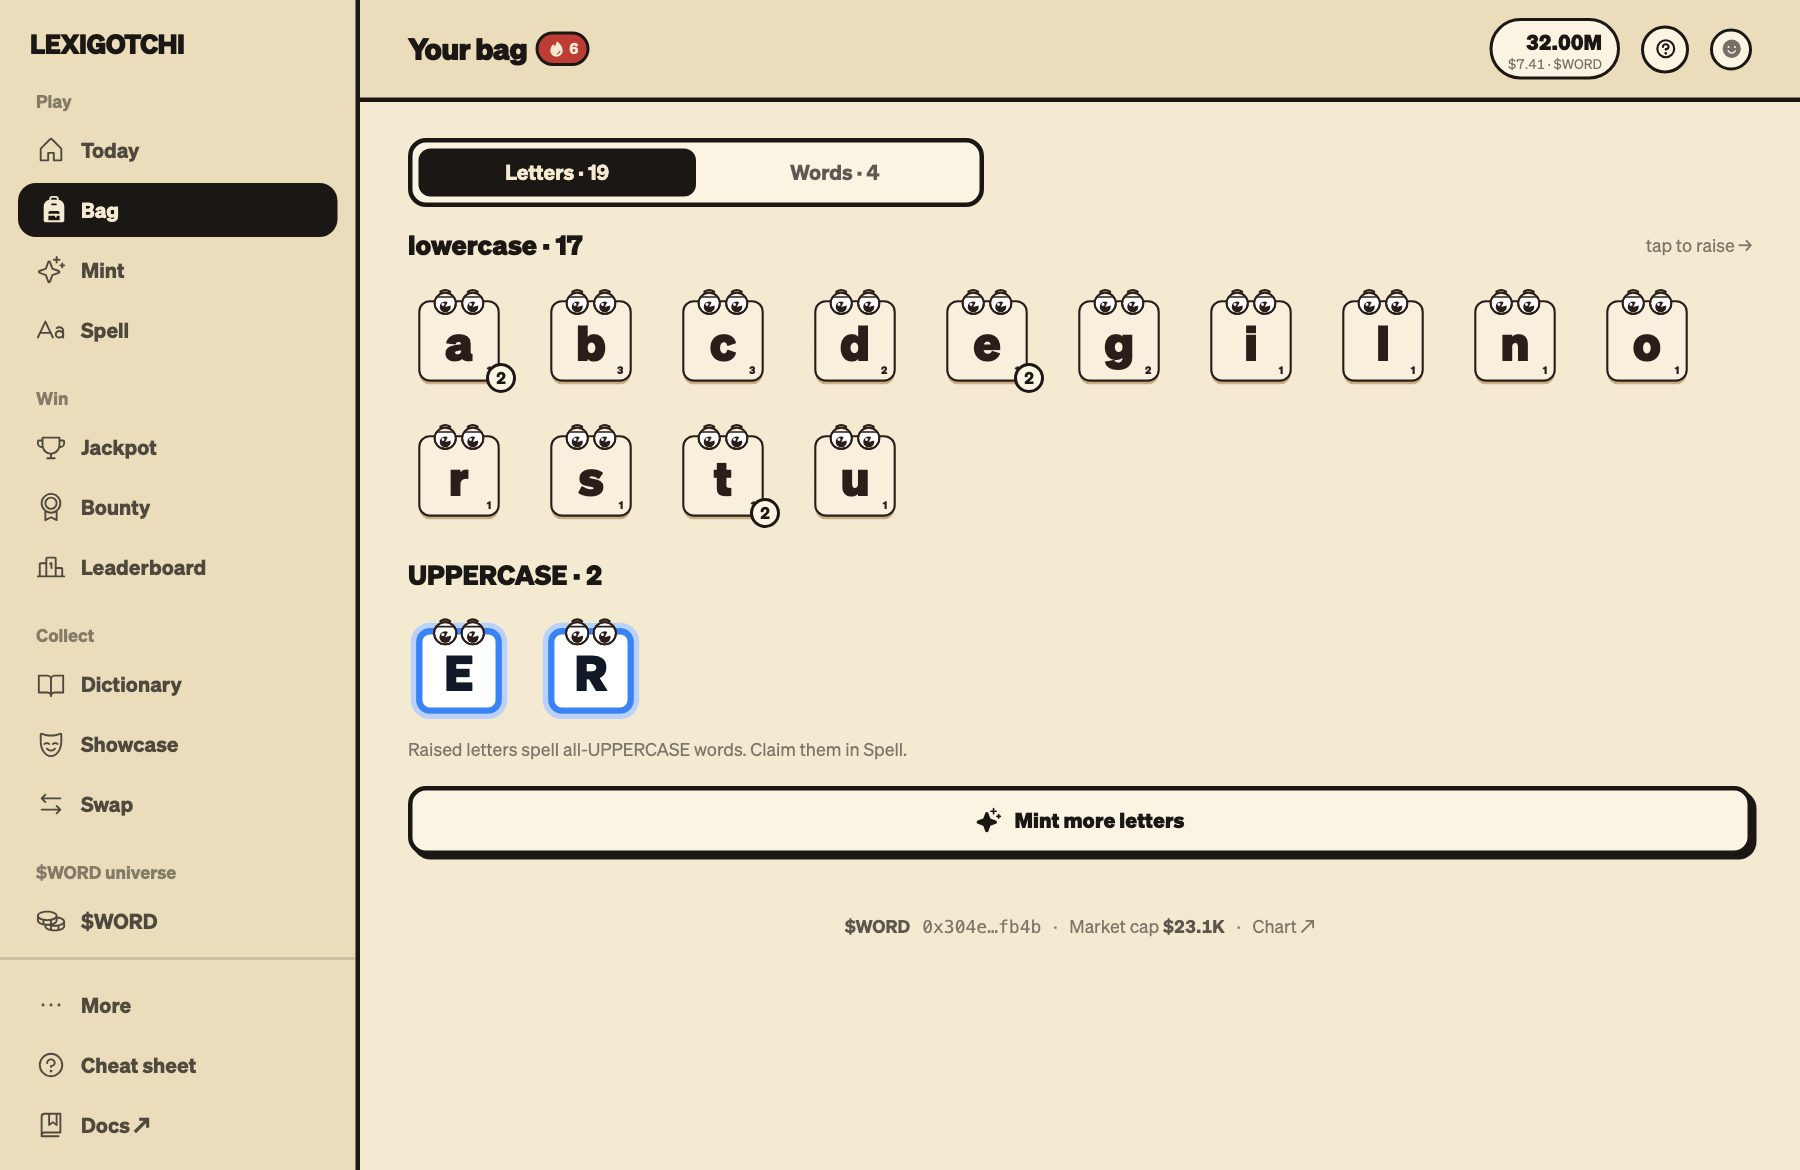
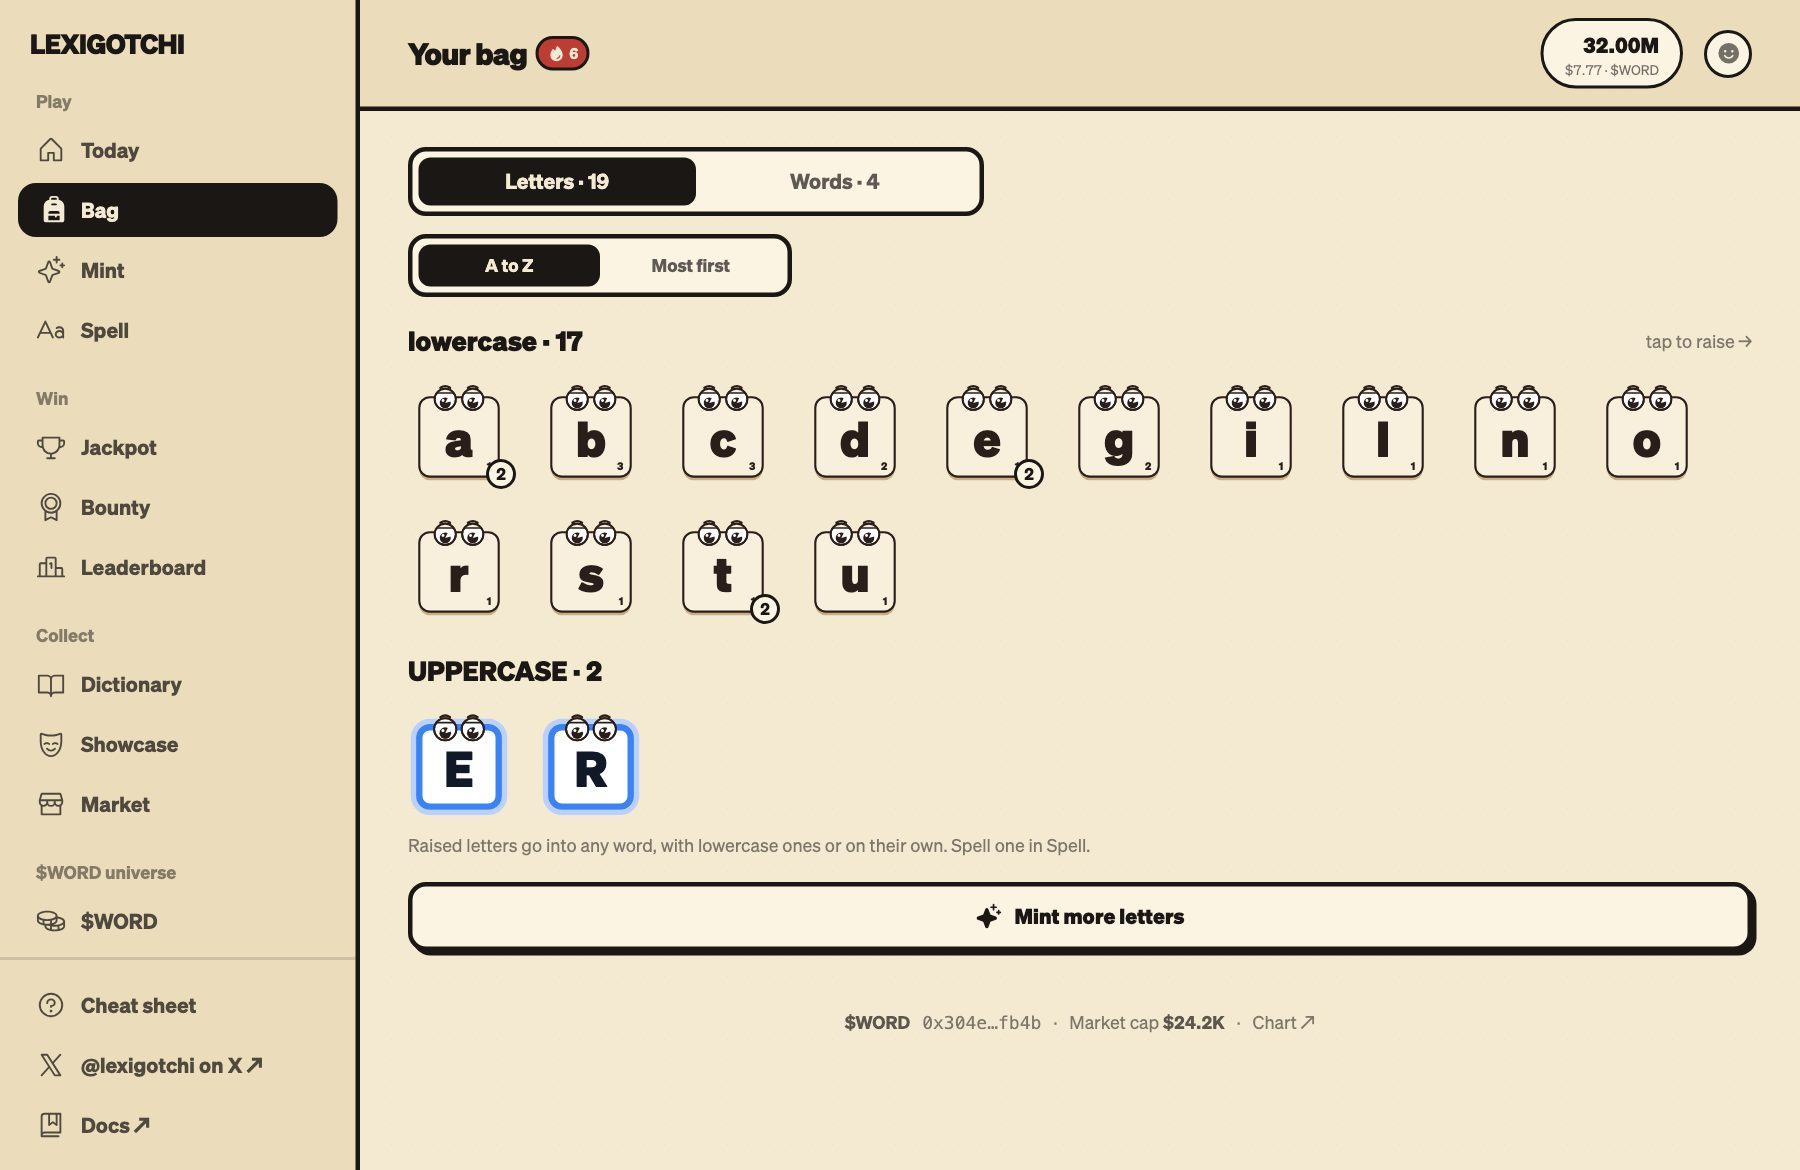
Docs: the last mixed-case, daily-letter, and tier-count leftovers, and fresh screenshots
README, GAME_DOCUMENTATION, the action map, and AUDIT.md still described claims
as five letters of one case (changed by decisions.md #17), the daily letter as
Farcaster-only, the Showcase as free text (#15), and no word sales (#18). The
rarity-tier table and the derived economy note still used the 4,438-word counts
and a "combined 1,997" invariant that no longer adds up (1,375 + 687 = 2,062;
the tests pin all five counts). Test counts in README and CLAUDE.md are dropped
rather than kept stale. The docs screenshots are retaken, so the rail says
Market and the Bag shows its sort; the practice-mode bounty leaderboard said
"1 words".

diff --git a/docs/action-map.html b/docs/action-map.html
@@ -109,7 +109,7 @@ const CLUSTERS = [
   { name:"Get letters", badge:"🎟", tag:"acquire", color:"var(--candy)", fg:"var(--paper)",
     blurb:"Bring letters — and the $WORD to pay for everything — into your bag.",
     acts:[
-      {ico:"🎟", nm:"Mint the free daily letter", ds:"One free lowercase letter, gated to your Farcaster FID, every day.", where:"Mint · Home", code:"dailyMint"},
+      {ico:"🎟", nm:"Mint the free daily letter", ds:"One free lowercase letter a day for each player, unlocked by Farcaster, X, or a Coinbase-verified wallet.", where:"Today · Mint", code:"dailyMint"},
       {ico:"📦", nm:"Open a pack of 5", ds:"Buy five lowercase letters anytime — odds mirror the dictionary.", where:"Mint", code:"openPack"},
       {ico:"💰", nm:"Buy $WORD", ds:"Top up your balance (pay in $WORD or ETH, auto-swapped).", where:"Balance", code:"—"},
     ]},
@@ -122,18 +122,18 @@ const CLUSTERS = [
     ]},
 
   { name:"Claim", badge:"✍", tag:"create", color:"var(--teal)", fg:"var(--paper)",
-    blurb:"Turn 5 same-case letters into a word you own — and recycle the ones you regret.",
+    blurb:"Turn 5 letters into a word you own — and recycle the ones you regret.",
     acts:[
-      {ico:"✍", nm:"Spell & claim a word", ds:"Escrow 5 uniform-case letters → a 1-of-1 word NFT (held by one player at a time).", where:"Spell", code:"claim"},
+      {ico:"✍", nm:"Spell & claim a word", ds:"Escrow the 5 letters that spell a dictionary word, in any mix of cases → a 1-of-1 word NFT (held by one player at a time).", where:"Spell", code:"claim"},
       {ico:"♻", nm:"Dissolve a word", ds:"Burn it, recover its 5 letters in their current case, and free the name.", where:"Word sheet", code:"dissolve"},
     ]},
 
   { name:"Care", badge:"🍪", tag:"maintain", color:"var(--billiard)", fg:"var(--paper)",
     blurb:"The tamagotchi loop. Staked words get hungry; feed them or they sit out.",
     acts:[
-      {ico:"📌", nm:"Stake / unstake a word", ds:"Put a word to work (earning + jackpot-eligible) — or pull it back out.", where:"Word sheet", code:"toggleStake"},
-      {ico:"🍪", nm:"Feed a word", ds:"Reset its hunger. First snack each day is free, then paid (100% burned).", where:"Word sheet", code:"feed"},
-      {ico:"🍪", nm:"Feed all hungry words", ds:"One tap to feed everything that needs it, as far as your balance goes.", where:"Home (care alert)", code:"feedAll"},
+      {ico:"📌", nm:"Stake / unstake a word", ds:"Put a word to work (jackpot-eligible, and earning once all-UPPERCASE) — or pull it back out.", where:"Word sheet", code:"toggleStake"},
+      {ico:"🍪", nm:"Feed a word", ds:"Reset its hunger. One snack a day is free for your whole profile; the rest are paid (100% burned).", where:"Word sheet", code:"feed"},
+      {ico:"🍪", nm:"Feed all hungry words", ds:"One tap to feed everything that needs it, as far as your balance goes.", where:"Today", code:"feedAll"},
     ]},
 
   { name:"Win", badge:"🏆", tag:"earn", color:"var(--brass)", fg:"var(--paper)",
@@ -150,17 +150,18 @@ const CLUSTERS = [
   { name:"Show off & trade", badge:"🎭", tag:"social", color:"var(--blue)", fg:"var(--paper)", span2:true,
     blurb:"The growth + secondary-market surface. Every cast is an ad; swaps move letters peer-to-peer.",
     acts:[
-      {ico:"🎭", nm:"Build a showcase & cast it", ds:"Arrange any letters you own into any string (no dictionary check) and cast it — pure flex.", where:"Showcase", code:"share"},
-      {ico:"🔁", nm:"Propose a letter swap", ds:"Offer a two-sided letter trade (\"my Q for your two Z's, + $WORD\") as a shareable cast.", where:"Swap", code:"share"},
+      {ico:"🎭", nm:"Build a showcase & cast it", ds:"Pick a word you own and its scene, and post it on X (or cast it on Farcaster) — pure flex.", where:"Showcase", code:"share"},
+      {ico:"🔁", nm:"Propose a letter swap", ds:"Offer a two-sided letter trade (\"my Q for your two Z's, + $WORD\") as a free signed offer on the Market.", where:"Market", code:"share"},
+      {ico:"🏷", nm:"Sell a word", ds:"List a word for the $WORD price you choose. You get 90%; 10% goes to the Rewards Pool.", where:"Word sheet · Market", code:"listWord"},
       {ico:"📣", nm:"Share a win or a claim", ds:"Cast your jackpot win, a fresh claim, or a lucky pull straight to Farcaster.", where:"result sheets", code:"useShare"},
     ]},
 
   { name:"Account & explore", badge:"🧭", tag:"meta", color:"var(--night)", fg:"var(--paper)",
     blurb:"Identity, funds, and reference — the connective tissue.",
     acts:[
-      {ico:"🔑", nm:"Sign in with Farcaster", ds:"Connect your account (in-client auto, or Sign In With Neynar on web). Unlocks the FID daily.", where:"Home · Mint · Balance", code:"signIn"},
+      {ico:"🔑", nm:"Sign in with Farcaster", ds:"Your wallet is your account (auto in Farcaster clients). Link Farcaster or X, or verify with Coinbase, for the free daily letter.", where:"Profile", code:"signIn"},
       {ico:"📖", nm:"Browse the Dictionary", ds:"Explore all 4,584 claimable words, their rarity tiers, and who owns what.", where:"Dictionary", code:"—"},
-      {ico:"❓", nm:"Open the FAQ / replay intro", ds:"How the whole thing works, replayable any time.", where:"FAQ", code:"—"},
+      {ico:"❓", nm:"Open the cheat sheet / replay intro", ds:"How the whole thing works, with the docs and the intro one tap away.", where:"Cheat sheet (?)", code:"—"},
     ]},
 
   { sec:"Prototype-only (debug — not real player actions)" },

diff --git a/src/lib/economy.ts b/src/lib/economy.ts
@@ -10,11 +10,10 @@
  *   - Supply cap:   floor(slots × DEMAND_MULTIPLE), DEMAND_MULTIPLE = 2.5  → 57,294 total.
  *   - Rarity score: −Σ log₁₀(letterFrequency) over a word's 5 letters (higher = rarer).
  *   - Tiers:        rank words by score asc; cut at floor(N×p) for p = .50/.80/.95/.99.
- *                   Ties broken alphabetically (stable, deterministic). This reproduces
- *                   Common=2292, Epic=184, Legendary=46 and the exact 46-Legendary list
- *                   (re-derived for 4,584 words; the spec's 4,438-word figures were 2219/177/45);
- *                   a single word straddles the Uncommon/Rare score-tie boundary, so we
- *                   treat that combined bucket (1,997 words) as the asserted invariant.
+ *                   Ties broken alphabetically (stable, deterministic). This gives
+ *                   Common=2292, Uncommon=1375, Rare=687, Epic=184, Legendary=46 and the exact
+ *                   46-Legendary list, all pinned by tests (re-derived for 4,584 words; the
+ *                   spec's 4,438-word figures were 2219/1330/667/177/45).
  */
 import { WORDS } from "./dictionary";
 

diff --git a/scripts/derive-economy.ts b/scripts/derive-economy.ts
@@ -71,9 +71,8 @@ for (const t of TIERS) {
 }
 
 md += `
-> Note: a single word sits on the Uncommon/Rare score-tie boundary, so the computed split is
-> ${TIER_COUNTS.Uncommon}/${TIER_COUNTS.Rare} vs the spec's 1330/667 — the combined 1,997 is invariant; the anchor
-> counts (Common ${TIER_COUNTS.Common}, Epic ${TIER_COUNTS.Epic}, Legendary ${TIER_COUNTS.Legendary}) match exactly.
+> Note: the cuts fall at floor(N × .50/.80/.95/.99), so each count is exact, and \`npm test\` pins all five.
+> (The spec's Appendix B was written for 4,438 words: 2,219 / 1,330 / 667 / 177 / 45.)
 
 ### The ${LEGENDARIES.length} Legendaries (rarest first)
 

diff --git a/src/components/game/screens/BountyScreen.tsx b/src/components/game/screens/BountyScreen.tsx
@@ -121,7 +121,7 @@ export function BountyScreen() {
                   <span className="font-display text-ink/50">#{i + 1}</span>
                   {r.who}
                 </span>
-                <span className="font-bold">{r.n} words</span>
+                <span className="font-bold">{r.n} {r.n === 1 ? "word" : "words"}</span>
               </div>
             ))}
         </div>

diff --git a/README.md b/README.md
@@ -22,15 +22,16 @@ npm run dev          # http://localhost:3000 (landing page) · /play (the game)
 ```
 
 Players in a Farcaster client are auto-connected; on the open web they connect any wallet (the wallet
-is the account) and can link Farcaster to unlock the free daily letter. Every button is wired to the (mock) game state, so the full loop is explorable end to
-end. See the player docs at **[lexigotchi.fun/docs](https://lexigotchi.fun/docs)** (source: `docs-site/`) for how the game works, and **[GAME_DOCUMENTATION.md](./GAME_DOCUMENTATION.md)**
+is the account) and can link Farcaster or X, or verify with Coinbase, to unlock the free daily letter. Where the network's
+contracts are deployed (Base Sepolia today), every button is a real onchain action; anywhere else the game runs in
+practice mode on a mock store, so the full loop is explorable end to end. See the player docs at **[lexigotchi.fun/docs](https://lexigotchi.fun/docs)** (source: `docs-site/`) for how the game works, and **[GAME_DOCUMENTATION.md](./GAME_DOCUMENTATION.md)**
 for the complete mechanics, odds, and economy reference.
 
 ### Environment
 
 Copy `.env.example` → `.env.local` and set:
 
-- `NEXT_PUBLIC_NEYNAR_CLIENT_ID` — Neynar client ID (public; powers web Sign In With Neynar)
+- `NEXT_PUBLIC_NEYNAR_CLIENT_ID` — Neynar client ID (public; the mini app's notification webhook URL is derived from it)
 - `NEYNAR_API_KEY` — Neynar app API key (server-side only, never exposed)
 - `NEXT_PUBLIC_URL` — the deployed origin (used for the mini-app manifest + share-embed images)
 
@@ -56,20 +57,22 @@ served at `/.well-known/farcaster.json`.
 
 ## The loop
 
-1. **Mint** lowercase letters — a free daily single (1 per Farcaster FID) or packs of 5. Odds
+1. **Mint** lowercase letters — a free daily single (one per player, unlocked by Farcaster, X, or a
+   Coinbase-verified wallet) or packs of 5. Odds
    mirror the dictionary; capitals are never pulled.
 2. **Raise** a letter to UPPERCASE with a roll — 40% on the first try, +15 points per miss, up to 85%. A failed
    roll never harms your letter.
-3. **Claim** a word by escrowing 5 uniform-case letters → one ERC-721 per word
-   (`tokenId = keccak256(word)`); case is derived from the escrow.
+3. **Claim** a word by escrowing the 5 letters that spell it, in any mix of lowercase and UPPERCASE →
+   one ERC-721 per word (`tokenId = keccak256(word)`); case is derived from the escrow.
 4. **Stake & Snack** — UPPERCASE words draw yield; any staked, fed word is a jackpot ticket. Feed
    snacks or they get hungry.
 5. **Win** — Lexigotchi reveals a secret word daily from its own pre-committed hash-chain; hold it
    staked and fed and you take the whole pot.
 
 Two renewable late-game loops sit on top: a **weekly theme bounty** (broad) and **prestige/ascension**
-(deep). Plus **showcases** (cast any letters you own), **swaps** (two-sided letter escrow), and
-**dissolution** (recover a word's letters, free the name).
+(deep). Plus **showcases** (share a word you own, X first), the **Market** (two-sided letter swaps,
+and words listed for sale in $WORD: 90% to the seller, 10% to the Rewards Pool), and **dissolution**
+(recover a word's letters, free the name).
 
 ---
 
@@ -83,10 +86,11 @@ payouts are capped at balance) and **failed rolls that provably never harm an as
 npm run contracts:setup    # vendor forge-std + OpenZeppelin into contracts/lib
 npm run derive:contracts   # write contracts/config/economy.json (caps, weights, dictionary root)
 npm run contracts:build
-npm run contracts:test     # 54 tests
+npm run contracts:test
 ```
 
-> **Phase 0 — code-complete and unit-tested, not yet audited or deployed.** See
+> **Live on Base Sepolia (the testnet rehearsal); Base mainnet at launch.** Internally audited
+> ([`contracts/AUDIT.md`](./contracts/AUDIT.md)). See
 > [`contracts/README.md`](./contracts/README.md) for the architecture, the documented trust model, the
 > deploy script, and the pre-mainnet checklist.
 
@@ -129,7 +133,7 @@ Sectioned tabs:
 - **Settings** — _Deployments_ (the contract address registry) and _Broadcast_ (operator
   announcements).
 
-Because the contracts aren't deployed yet, every on-chain action is built into a **transaction plan**
+Every owner action is built into a **transaction plan**
 — a copy-pasteable `cast send` command **and** a Gnosis Safe Transaction Builder batch — rather than
 signed in the browser (the right model for a multisig owner). Funding the pools uses an owner-only
 `FeeRouter.seed(bucket, amount)` added for this purpose (Pool + Bounty only; the jackpot self-funds
@@ -144,8 +148,8 @@ security boundary for any action is the owner's wallet signature, not the route 
 ## Status
 
 Phase 0 prototype → Phase 1 Mint &amp; Claim → Phase 2 Roll &amp; Shine (+ Showcase) → Phase 3 Stake
-&amp; Snack (+ jackpot) → Phase 4 Deepen. The app and the contract suite are built; deployment,
-audit, and the production keeper/signer infrastructure are the next milestones. Prices in `params.ts`
+&amp; Snack (+ jackpot) → Phase 4 Deepen. The app and the contract suite run on Base Sepolia,
+with the hosted keeper and signer; Base mainnet is next. Prices in `params.ts`
 are USD-pegged placeholders the tokenomics sim exists to set.
 
 ## License

diff --git a/GAME_DOCUMENTATION.md b/GAME_DOCUMENTATION.md
@@ -18,7 +18,7 @@ the on-chain architecture. Written to be fed to an LLM (or a new contributor) as
 
 | Step | Action | Outcome |
 |---|---|---|
-| **Mint** | Pull lowercase letters — a free daily single (FID-gated) or packs of 5 | Letter NFTs (ERC-1155), 100% lowercase |
+| **Mint** | Pull lowercase letters — a free daily single (one per player: Farcaster, X, or a Coinbase-verified wallet) or packs of 5 | Letter NFTs (ERC-1155), 100% lowercase |
 | **Raise** | Roll a lowercase letter toward UPPERCASE | A capital letter (40% base, pity to 85%); failure is harmless |
 | **Claim** | Spell a dictionary word with 5 letters, any mix of cases | One Word NFT (ERC-721); the 5 letters are escrowed inside it |
 | **Stake & Snack** | Stake a Word to earn; feed it snacks | UPPERCASE words draw yield; any staked, fed word is a jackpot ticket |
@@ -116,13 +116,14 @@ score). Words are ranked ascending and cut at floor percentiles, with an alphabe
 
 | Tier | Percentile cut | Count | Stake weight |
 |---|---|---|---|
-| Common | ≤ 50% | 2,219 | 1 |
-| Uncommon | ≤ 80% | ~1,331 | 2 |
-| Rare | ≤ 95% | ~666 | 3 |
-| Epic | ≤ 99% | 177 | 5 |
-| Legendary | top 1% | 45 | 8 |
+| Common | ≤ 50% | 2,292 | 1 |
+| Uncommon | ≤ 80% | 1,375 | 2 |
+| Rare | ≤ 95% | 687 | 3 |
+| Epic | ≤ 99% | 184 | 5 |
+| Legendary | top 1% | 46 | 8 |
 
-(The Uncommon/Rare boundary straddles a score tie; the combined 1,997 is the invariant.) **JAZZY** is
+(Each count is exact at the `floor(4,584 × p)` cuts, and `npm test` pins all five. The spec's
+Appendix B was written for 4,438 words.) **JAZZY** is
 the apex crown — the only word combining two distinct ultra-rares with a double letter.
 
 ---

diff --git a/CLAUDE.md b/CLAUDE.md
@@ -17,9 +17,9 @@ for the mini app; sim/economy core is **zero-runtime-dependency TS** (runs via `
 - `npm run dev` — the app; `/` is the landing page, `/play` is the game (and the mini app).
 - `npm run sim -- --days 365 --population 1500 --seed 7` — economy/solvency report
 - `npm run derive` — regenerate `docs/economy.md`; `npm run derive:contracts` — `contracts/config/economy.json`
-- `npm test` — economy + solvency invariants (84 vitest tests)
+- `npm test` — the vitest suite: economy + solvency invariants, the game, the routes
 - `npm run build` / `npm run typecheck`
-- `npm run contracts:setup` (vendor deps) → `npm run contracts:build` / `npm run contracts:test` (65 forge tests)
+- `npm run contracts:setup` (vendor deps) → `npm run contracts:build` / `npm run contracts:test` (forge)
 - `npm run keeper -- [--resolve] [--fees] [--yield] [--bounty] [--payout] [--achievements] [--notify] [--dry]` — the
   daily operator pass, by hand. **Scheduled** by `/api/cron/keeper` (vercel.json, 00:05 UTC): same
   jobs (`src/lib/keeper/jobs.ts`, `createKeeper({ dry })`), the ones listed in `KEEPER_JOBS` (default

diff --git a/contracts/AUDIT.md b/contracts/AUDIT.md
@@ -48,7 +48,8 @@ suite depends on its `burn()` + `transferFrom` semantics.
    one lowercase + mints one uppercase (net per-letter supply conserved); free vouchers consume cap
    like paid mints.
 3. **One word = one NFT.** `tokenId = keccak256(word)`; case derived from escrow, never stored wrong;
-   claim escrows exactly 5 of uniform case; dissolve returns exactly those 5 + frees the name.
+   claim escrows exactly 5, each in the case the claim names (any mix, decisions.md #17); dissolve
+   returns exactly those 5 + frees the name.
 4. **Fail is a no-op.** A signed-but-stale roll/prestige success degrades to a no-op, never harming the
    asset or stranding the fee (no expiry on commits).
 5. **Jackpot is self-funded.** `seed()` reverts on the jackpot bucket (`JackpotNotSeedable`); the chance

diff --git a/docs/economy.md b/docs/economy.md
@@ -62,9 +62,8 @@ Word rarity score = −Σ log₁₀(letter frequency) over its 5 letters; tiers 
 | Epic | 184 | 4.01% | 5 |
 | Legendary | 46 | 1.00% | 8 |
 
-> Note: a single word sits on the Uncommon/Rare score-tie boundary, so the computed split is
-> 1375/687 vs the spec's 1330/667 — the combined 1,997 is invariant; the anchor
-> counts (Common 2292, Epic 184, Legendary 46) match exactly.
+> Note: the cuts fall at floor(N × .50/.80/.95/.99), so each count is exact, and `npm test` pins all five.
+> (The spec's Appendix B was written for 4,438 words: 2,219 / 1,330 / 667 / 177 / 45.)
 
 ### The 46 Legendaries (rarest first)
 

diff --git a/contracts/README.md b/contracts/README.md
@@ -12,7 +12,7 @@ OpenZeppelin is resolved from the repo's `node_modules`; `forge-std` is cloned. 
 npm install                 # at the repo root (installs @openzeppelin/contracts)
 npm run contracts:setup     # clones forge-std + vendors OZ into contracts/lib (gitignored)
 npm run contracts:build     # forge build
-npm run contracts:test      # forge test  (54 tests)
+npm run contracts:test      # forge test
 npm run derive:contracts    # regenerate config/economy.json from the canonical dictionary
 ```
 
